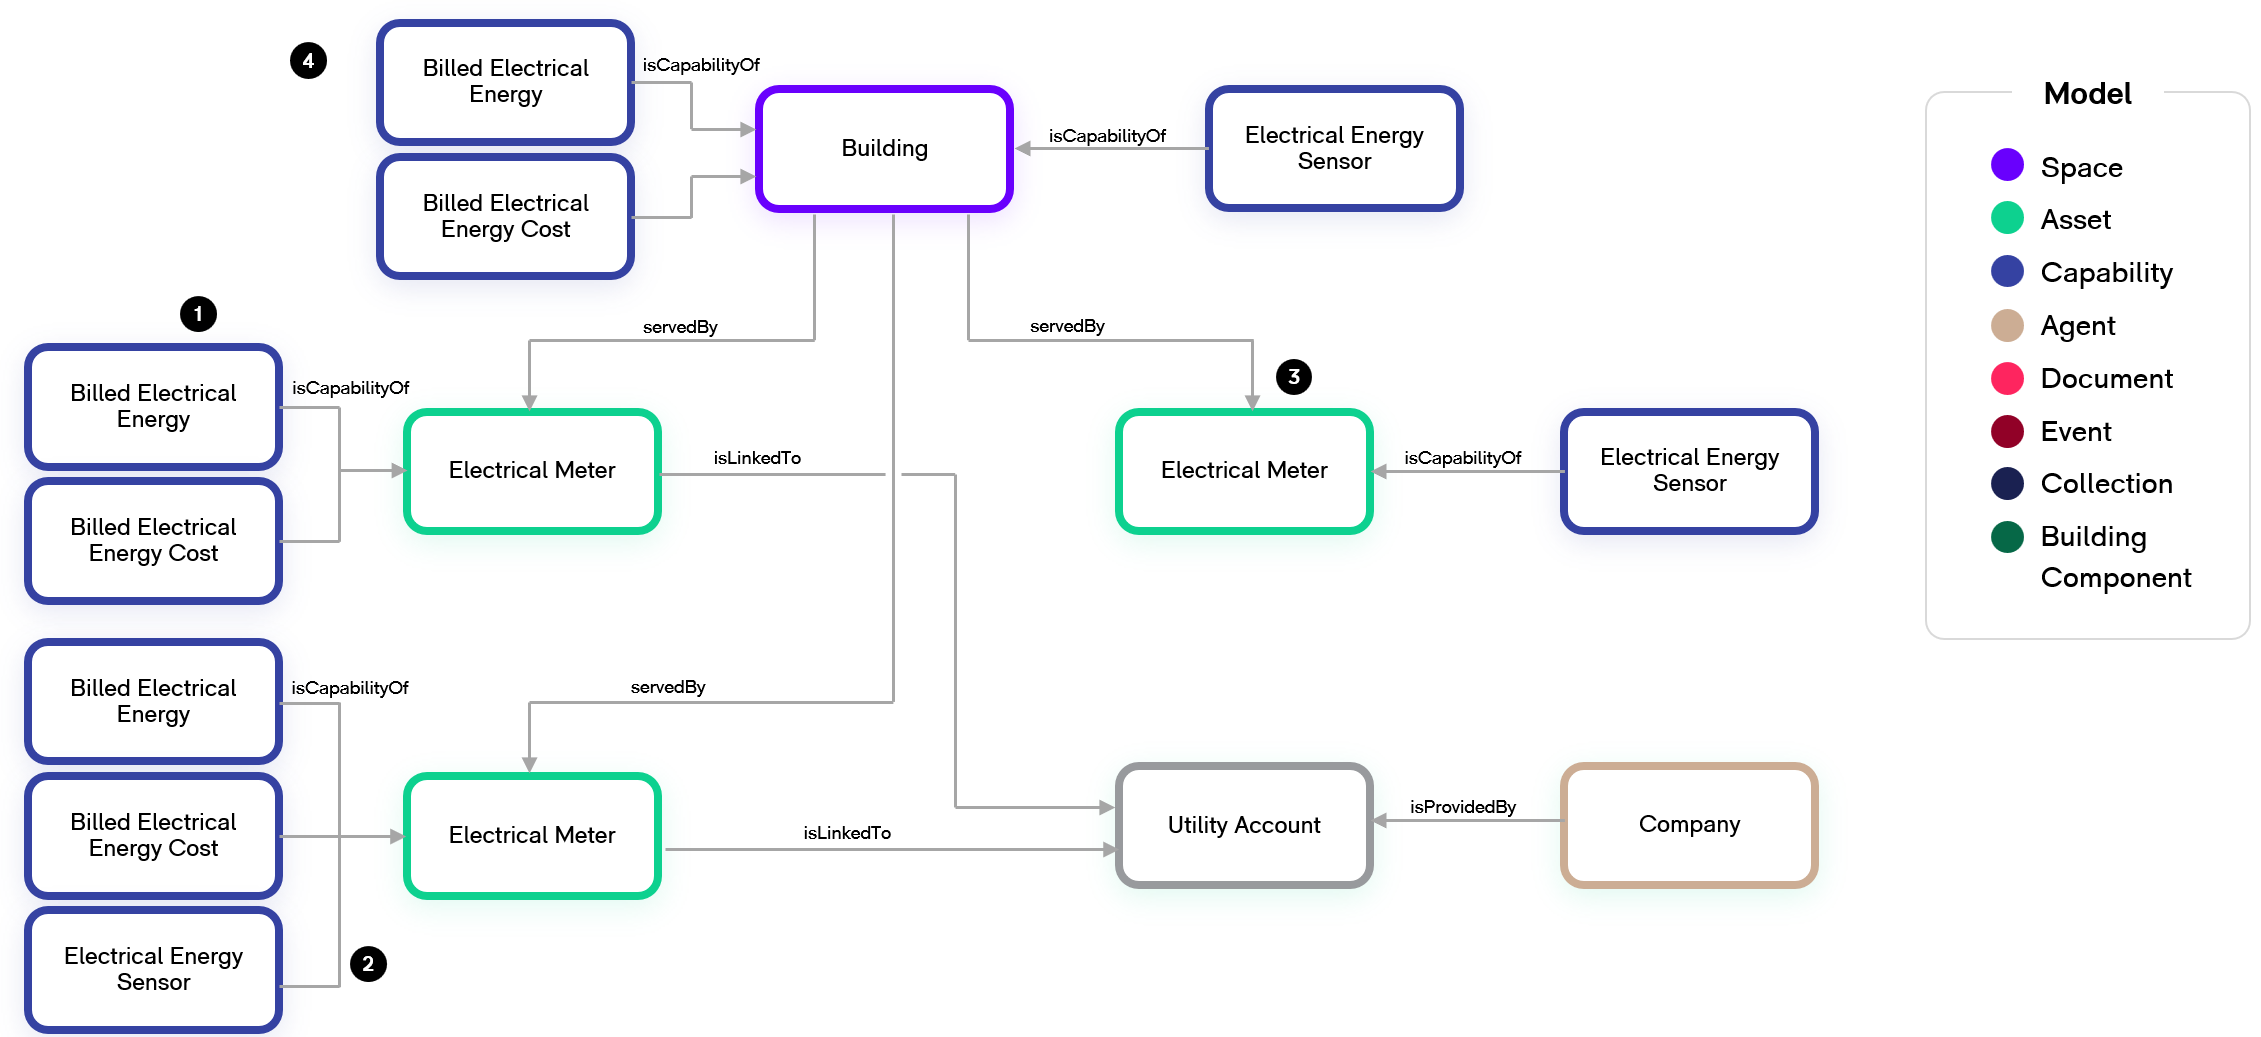
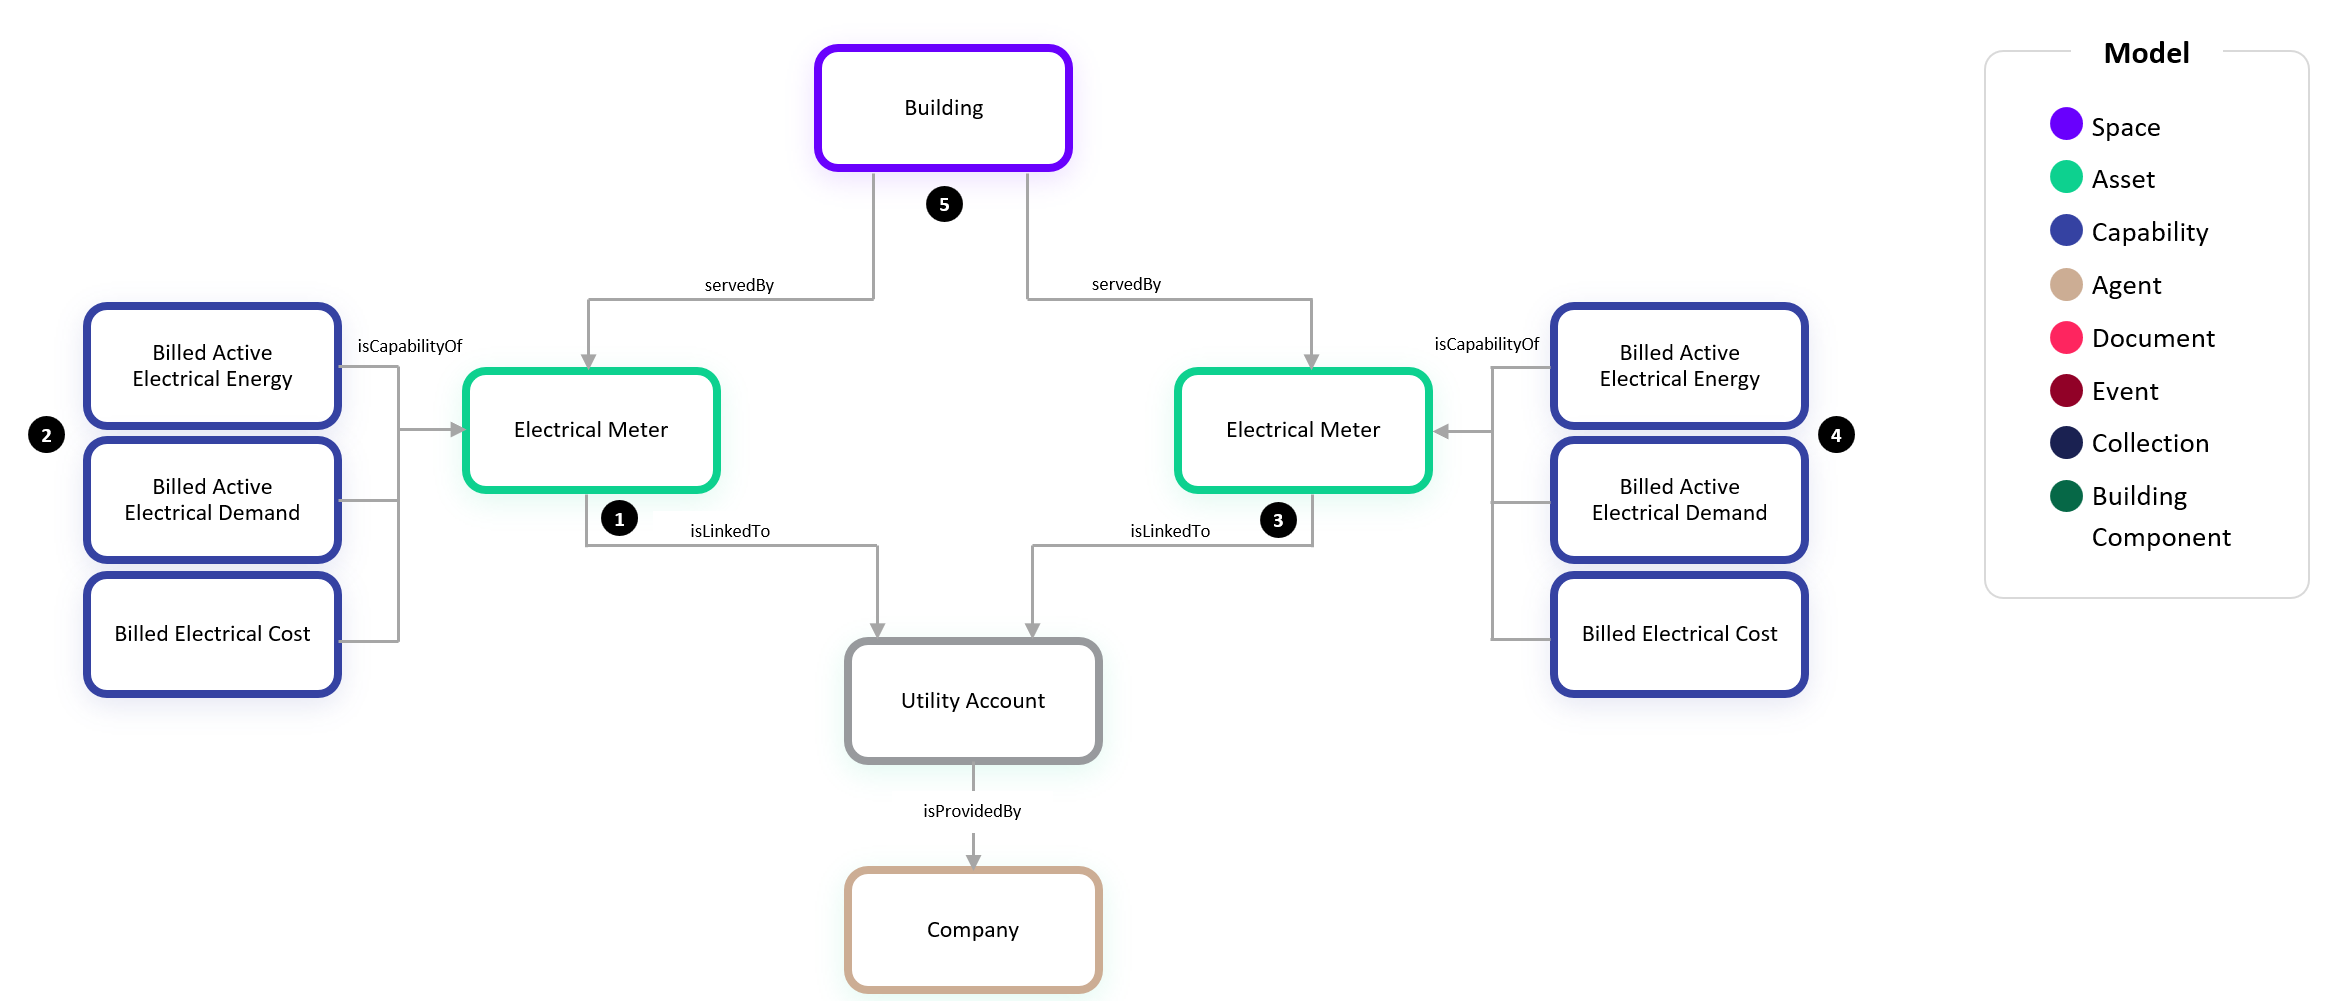
New samples

Changed region(s): [[0.0, 0.0, 0.805, 1.0], [0.8669, 0.031, 0.9907, 0.6194], [0.4334, 0.2787, 0.4954, 0.3407]]

diff --git a/Samples/06-Metering.md b/Samples/06-Metering.md
@@ -135,5 +135,33 @@ Metering load classification enables analytics to make assumptions on what types
 ### Electrical - Building
 ![BilledUtilitly-Example1](Images/BilledUtility-Example1.png)
 
+Billing for electricity consists of one or more meters which serve a Building that may be on the same Utility Account. In this example, we show a Building with two services on the same Utility Account:
+
+1. The first meter is linked to the Utility Account which is provided by the Company which offers the utility service.
+
+2. The charges for the supply of electricity are typically based on energy consumption measured in kWh. Here we show this as the Billed Active Electrical Energy. There may also be charges related to maximum power required during the billing period which is known as the Billed Activity Electrical Demand and is typically measured in kW. The total charges for the bill are shown as the Billed Electrical Cost.
+
+3. The second meter is linked to the same Utility Account.
+
+4. The same metrics of Billed Active Electrical Energy, Billed Active Electrical Demand, and Billed Electrical Cost are included for this meter.
+
+5. To determine the totals for this Building, the sum of each respective metric should be taken.
+
+### Electrical - Supply and Delivery
+![BilledUtilitly-SupplyDelivery](Images/BilledUtility-SupplyDelivery.png)
+
+Billing for electricity consists of both supply and delivery charges. Depending on the location, these may be from the same or different companies, and they may appear on the same or different bills each month. As such, this example shows an example where these are provided by different companies and appear on different bills.
+
+1. There is one utility account for the supply of electricity. This is also referred to as electrical generation. This Electrical Meter is linked to the Utility Account which is provided by this electricity generation Company.
+
+2. The charges for the supply of electricity are typically based on energy consumption measured in kWh. Here we show this as the Billed Active Electrical Energy. The charges associated with supply are shown as the Billed Electrical Cost.
+
+3. There is another utility account for the delivery of electricity. These companies are often referred to as the electric utilities and are responsible for the distribution and transmission to the customer. This Electrical Meter is linked to the Utility Account which is provided by this electricity delivery Company.
+
+4. The charges for the delivery of electricity often include a component based on electrical demand measured in kW. This is the maximum power required during the billing period. Here we show this as the Billed Active Electrical Demand. The charges associated with supply are shown as the Billed Electrical Cost.
+
+5. To determine the total monthly cost for electricity at this Building, the sum of the Billed Electrical Supply Cost and Billed Electrical Delivery Cost would need to be taken.
+
+
 ### Electrical - Tenant Unit & Company
 ![BilledUtilitly-Example1](Images/BilledUtility-Example2.png)
